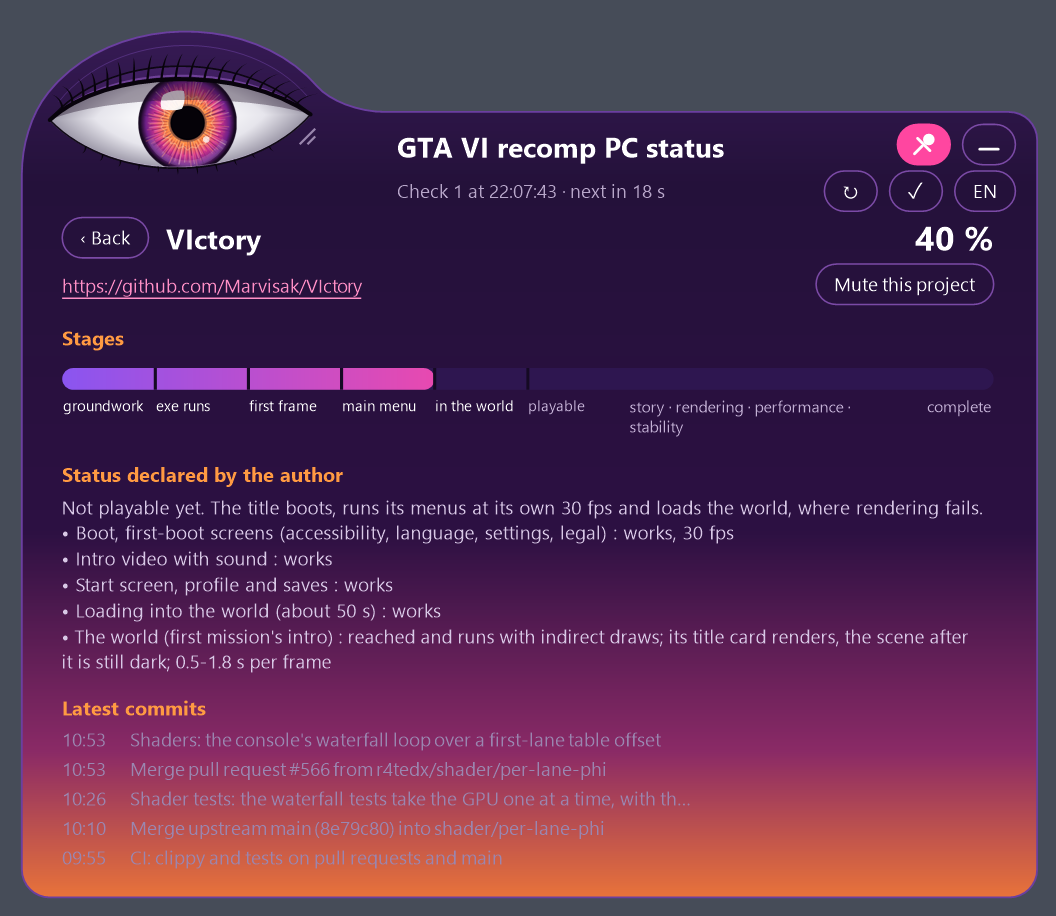
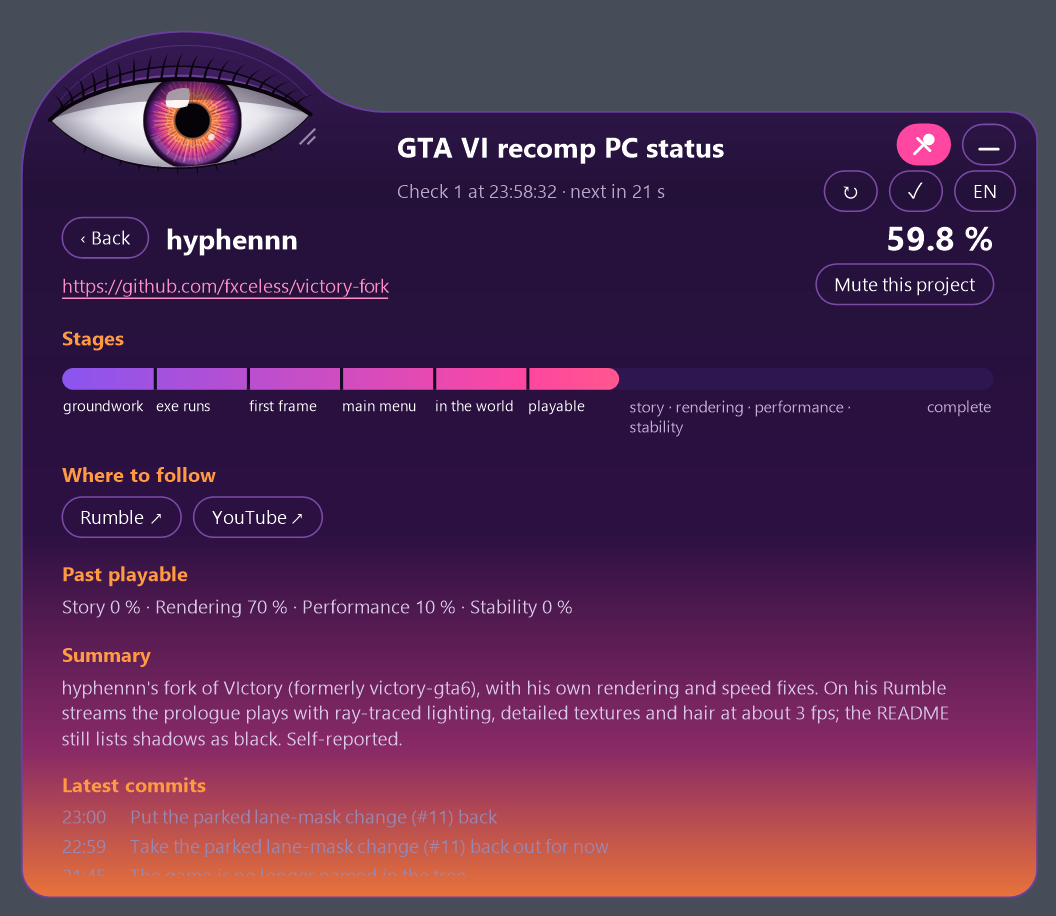
Show where to follow each project: Discord, streams, social accounts
The project page gets a "Where to follow" row of buttons. The list is links.txt,
read from the main branch at run time so a dead link is fixed without a release.
Version 1.2.0.

diff --git a/window/EyeWindow.cs b/window/EyeWindow.cs
@@ -55,6 +55,7 @@ static class Tr
         { "beyond", new[] { "story · rendering · performance · stability", "histoire · rendu · performance · stabilité", "historia · gráficos · rendimiento · estabilidad" } },
         { "private", new[] { "Private builds, not ranked", "Versions privées, hors classement", "Versiones privadas, sin clasificar" } },
         { "privnote", new[] { "Private build: no public code, so it is not ranked.", "Version privée : pas de code public, donc hors classement.", "Versión privada: sin código público, por eso no se clasifica." } },
+        { "follow", new[] { "Where to follow", "Où suivre", "Dónde seguir" } },
         { "quality", new[] { "Past playable", "Au-delà de « jouable »", "Más allá de «jugable»" } },
         { "tracks", new[] { "Story {0} % · Rendering {1} % · Performance {2} % · Stability {3} %", "Histoire {0} % · Rendu {1} % · Performance {2} % · Stabilité {3} %", "Historia {0} % · Gráficos {1} % · Rendimiento {2} % · Estabilidad {3} %" } },
         { "ev.commits1", new[] { "{0}: 1 new commit", "{0} : 1 nouveau commit", "{0}: 1 commit nuevo" } },
@@ -104,6 +105,7 @@ class Entry
     public double Score;
     public int Reached = 1;                  // dernier palier atteint, de 1 (preparation) a 7 (termine)
     public bool Missing;
+    public string Id = "";   // identifiant PortWatch, pour retrouver ses liens (Discord, stream)
     public string Key = "";  // identite du projet : son depot, ou son identifiant PortWatch s'il n'en a pas
     public string Url = "";  // page a ouvrir : le depot GitHub, sinon l'article PortWatch
     public int Stars;
@@ -483,6 +485,7 @@ class EyeWindow : Form
             bool hasRepo = System.Text.RegularExpressions.Regex.IsMatch(e.Repo ?? "", @"^[A-Za-z0-9_.-]+/[A-Za-z0-9_.-]+$");
             if (!hasRepo && string.IsNullOrEmpty(e.Id)) continue;
             Entry x = new Entry { Name = e.Name, Repo = hasRepo ? e.Repo : "", Summary = e.Summary ?? "", Missing = e.Missing || e.Nuked, Stars = e.Stars, Private = !hasRepo };
+            x.Id = e.Id ?? "";
             x.Key = hasRepo ? e.Repo : "pw:" + e.Id;
             x.Url = hasRepo ? "https://github.com/" + e.Repo
                 : System.Text.RegularExpressions.Regex.IsMatch(e.Link ?? "", @"^news/[a-z0-9-]+\.html$") ? "https://portwatch-vi.xyz/" + e.Link
@@ -1316,6 +1319,23 @@ class EyeWindow : Form
         float y = area.Y - newsScroll;
         Project p = e.Proj;
         if (e.Private) { Txt(g, Tr.S("privnote"), 12.5F, false, C(0xFFB98A), c.X + 4, y, c.Width - 8); y += 26; }
+        List<string[]> links = Links.For(e.Id);
+        if (links.Count > 0)
+        {
+            // Discord, stream, reseaux du projet : un bouton par lien, a la ligne si la place manque.
+            Txt(g, Tr.S("follow"), 13F, true, orange, c.X + 4, y, 400); y += 24;
+            float lx = c.X + 4;
+            foreach (string[] l in links)
+            {
+                string label = l[0] + " ↗", target = l[1];
+                float lw = TxtW(g, label, 12F, false) + 24F;
+                if (lx > c.X + 4 && lx + lw > c.Right - 4) { lx = c.X + 4; y += 32; }
+                // hors de la zone visible, le bouton ne doit ni se dessiner ni capter les clics
+                if (y >= area.Y - 2 && y + 26 <= area.Bottom) Pill(g, label, lx, y, delegate { OpenLink(target); });
+                lx += lw + 8;
+            }
+            y += 40;
+        }
         if (e.Reached >= 6)
         {
             Txt(g, Tr.S("quality"), 13F, true, orange, c.X + 4, y, 400); y += 22;

diff --git a/window/Links.cs b/window/Links.cs
@@ -1,0 +1,74 @@
+using System;
+using System.Collections.Generic;
+using System.IO;
+using System.Net;
+using System.Text;
+using System.Text.RegularExpressions;
+
+// Ou suivre chaque projet : Discord, stream, reseaux. La liste vit dans links.txt a la racine du depot ;
+// le programme la relit regulierement, pour qu'un lien mort se corrige sans publier de version.
+// La copie ci-dessous sert tant que la lecture n'a pas reussi.
+static class Links
+{
+    const string Remote = "https://raw.githubusercontent.com/Epikou/gta-vi-recomp-watch/main/links.txt";
+
+    const string Builtin =
+        "victory-gta6|Rumble|https://rumble.com/user/hyphennn\n" +
+        "victory-gta6|YouTube|https://www.youtube.com/@hyphennnnnnn\n" +
+        "omonkey|Rumble (Swaggely)|https://rumble.com/user/Swaggely\n" +
+        "cgbj|X (video)|https://x.com/raul_bs3/status/2125172278975729688\n" +
+        "xcl|Discord|https://discord.gg/xcl\n" +
+        "xbox2windows|Discord|https://discord.gg/DMcmNtpd6R\n" +
+        "tuxbox|X|https://x.com/brclyxo\n" +
+        "tuxbox|YouTube|https://www.youtube.com/@Brclyxo\n";
+
+    // Seuls ces sites sont acceptes : la liste est lue sur Internet, elle ne doit pas pouvoir ouvrir n'importe quoi.
+    static readonly Regex Allowed = new Regex(
+        @"^https://(discord\.gg|rumble\.com|www\.youtube\.com|x\.com|www\.twitch\.tv|kick\.com)/[A-Za-z0-9_@./?=&%-]{1,200}$");
+
+    static Dictionary<string, List<string[]>> map = Parse(Builtin);
+    static readonly List<string[]> None = new List<string[]>();
+
+    // Liens d'un projet, par identifiant PortWatch : des paires { libelle, adresse }.
+    public static List<string[]> For(string id)
+    {
+        List<string[]> l;
+        return map.TryGetValue(id ?? "", out l) ? l : None;
+    }
+
+    public static void Refresh()
+    {
+        try
+        {
+            HttpWebRequest req = (HttpWebRequest)WebRequest.Create(Remote);
+            req.UserAgent = "gta-pc-watch";
+            req.Timeout = 20000;
+            string text;
+            using (WebResponse resp = req.GetResponse())
+            using (StreamReader sr = new StreamReader(resp.GetResponseStream(), Encoding.UTF8))
+                text = sr.ReadToEnd();
+            if (text.Length > 20000) return;
+            Dictionary<string, List<string[]>> m = Parse(text);
+            if (m.Count > 0) map = m; // une reponse vide ou illisible ne remplace rien
+        }
+        catch (Exception) { }
+    }
+
+    static Dictionary<string, List<string[]>> Parse(string text)
+    {
+        Dictionary<string, List<string[]>> m = new Dictionary<string, List<string[]>>(StringComparer.OrdinalIgnoreCase);
+        foreach (string raw in text.Replace("\r", "").Split('\n'))
+        {
+            string line = raw.Trim();
+            if (line.Length == 0 || line[0] == '#') continue;
+            string[] p = line.Split('|');
+            if (p.Length != 3) continue;
+            string id = p[0].Trim(), label = p[1].Trim(), url = p[2].Trim();
+            if (id.Length == 0 || label.Length == 0 || label.Length > 24 || !Allowed.IsMatch(url)) continue;
+            List<string[]> l;
+            if (!m.TryGetValue(id, out l)) m[id] = l = new List<string[]>();
+            if (l.Count < 5) l.Add(new[] { label, url });
+        }
+        return m;
+    }
+}

diff --git a/window/Updater.cs b/window/Updater.cs
@@ -13,7 +13,7 @@ using System.Text.RegularExpressions;
 
 static class Updater
 {
-    public const string Version = "1.1.0";
+    public const string Version = "1.2.0";
     const string Base = "https://github.com/Epikou/gta-vi-recomp-watch/releases/latest/download/";
     const int MaxBytes = 20 * 1024 * 1024;
 

diff --git a/window/GtaPcWatch.cs b/window/GtaPcWatch.cs
@@ -511,6 +511,7 @@ class MainForm : Form
             if (withTracker)
             {
                 LoadTracker(found);
+                Links.Refresh();
                 foreach (Project a in actors) LoadProject(a, found);
                 actorsDirty = true;
                 actorsLoaded = true;

diff --git a/README.md b/README.md
@@ -50,6 +50,10 @@ widget has to be updated to match, which is what the built-in updater is for.
 Click any project to see its milestones, the status its author declares, and its latest commits as they land.
 Too noisy? One button mutes that project.
 
+When a team has a public channel of its own (Discord server, Rumble or YouTube streams, X account), the page
+shows a button for each under "Where to follow". The list lives in [`links.txt`](links.txt) and is read again
+every couple of minutes, so a dead link is fixed there, without a new release.
+
 ![Project page: milestones, summary, latest commits and the mute button](window/captures/project-detail.png)
 
 ## Any corner, three languages
@@ -108,6 +112,7 @@ which then draws its own icon, and the second pass embeds that icon.
 - `window/GtaPcWatch.cs` is the polling engine.
 - `window/EyeWindow.cs` is the window: the eye, the panel, the translations.
 - `window/Updater.cs` is the updater; the version number lives there.
+- `window/Links.cs` reads `links.txt`, the channels where each project can be followed.
 - `window/release.ps1` builds and publishes a release (`GtaPcWatch.exe` and `version.txt`).
 
 ## Limits
